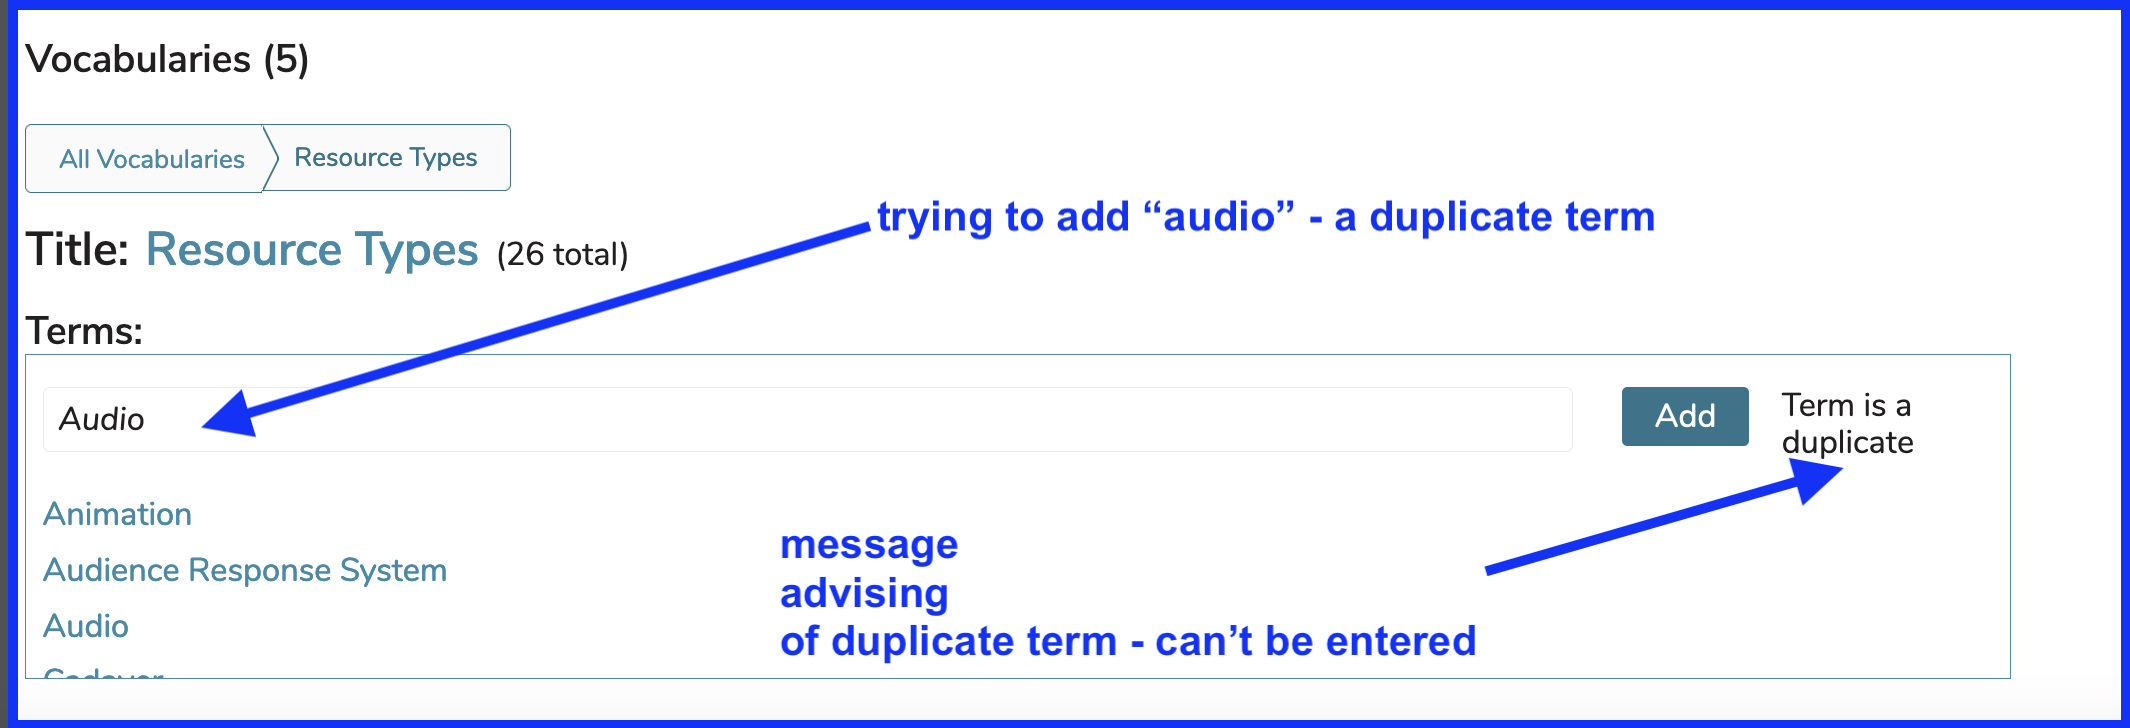
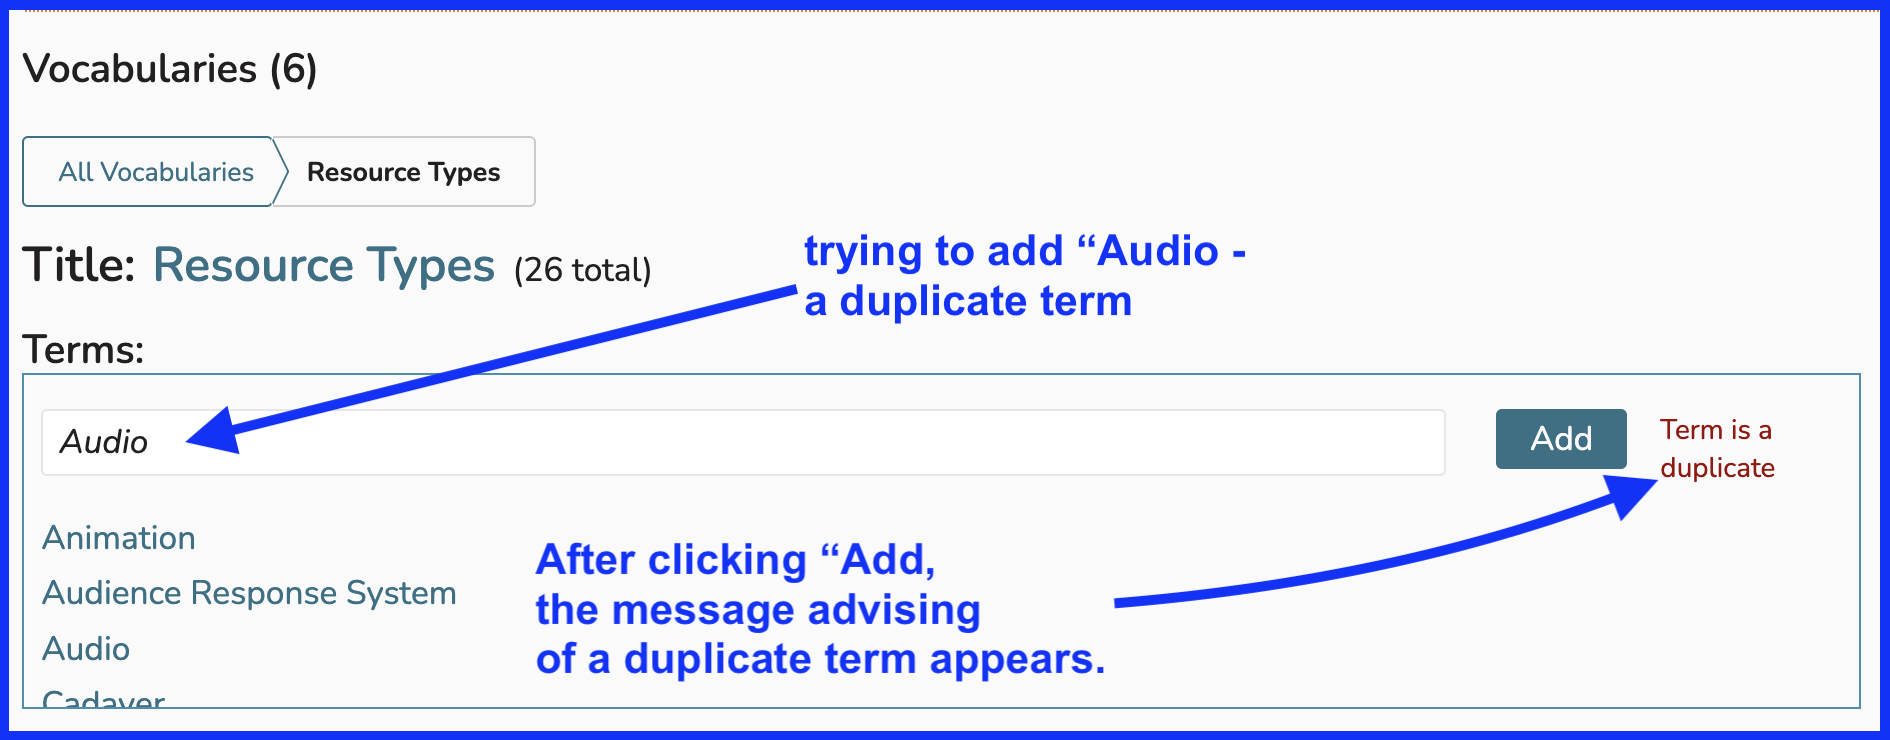
image replaced - slight text addition - no duplicate terms

Changed region(s): [[0.0, 0.0, 0.9989, 1.0]]

diff --git a/schools/vocabularies.md b/schools/vocabularies.md
@@ -80,9 +80,9 @@ To add a sub term, click on "Autism and Related Issues". The term being added he
 
 ### No Duplicate Terms
 
-If you try to add a term that is already in that particular vocabulary, an error message will appear advising of this fact. 
+If you try to add a term that is already in that particular vocabulary, an error message will appear advising of this fact. This occurs after clicking "Add" in attempt to add the duplicate term.
 
-![no duplicate terms allowed](../images/schools/vocabularies/no_duplicate_terms.png)
+![no duplicate terms](../images/schools/vocabularies/no_duplicate_terms.png)
 
 ## Activate / Deactivate Vocabulary Terms
 